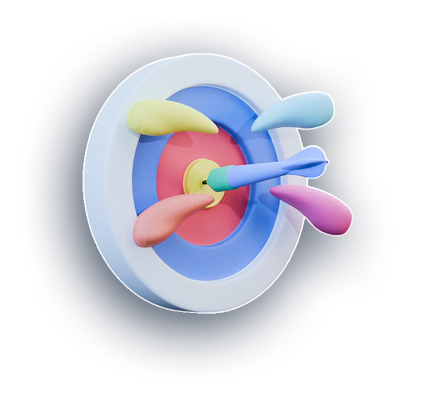
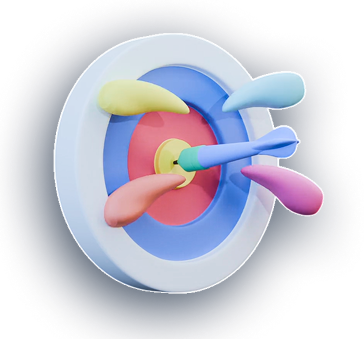
Imagenes nuevas y arreglos de css

diff --git a/index.html b/index.html
@@ -18,7 +18,7 @@
         
         <nav class="botones-navegacion">
             <a href="Contacto_Forms/forms.html" class="enlace-texto">Ayuda</a>
-            <a href="boveda.html" class="boton-primario-lineas">Mi Bóveda</a>
+            <a href="Carro.carga/carga_carro.html" class="boton-primario-lineas">Mi Bóveda</a>
         </nav>
     </header>
 
@@ -79,23 +79,38 @@
 
     <section class="seccion-testimonios">
         <h2>Testimonios</h2>
+        
         <div class="contenedor-carrusel">
             <button class="boton-flecha anterior" aria-label="Testimonio anterior">&#10094;&#10094;</button>
             
             <div class="rejilla-testimonios">
-                <div class="tarjeta-testimonio">
-                    <span class="etiqueta-cliente">Cliente Antiguo</span>
-                    <img src="Multimedia/Alberto-Hernandez.jpg" alt="Foto del cliente Alberto Hernández" class="imagen-usuario">
-                    <h4>Alberto Hernandez</h4>
-                    <p>“Lo que más tranquilidad me dio no fue solo ahorrar, sino sentir que podía adaptarme si las cosas cambiaban.”</p>
-                </div>
                 
-                <div class="tarjeta-testimonio">
+                <article class="tarjeta-testimonio">
+                    <span class="etiqueta-cliente">Cliente Antiguo</span>
+                    <div class="contenedor-foto-usuario">
+                        <img src="Multimedia/Alberto-Hernandez.jpg" alt="Foto del cliente Alberto Hernández" class="imagen-usuario">
+                    </div>
+                    <div class="bloque-contenido-testimonio">
+                        <h4>Alberto Hernandez</h4>
+                        <blockquote>
+                            “Lo que más tranquilidad me dio no fue solo ahorrar, sino sentir que podía adaptarme si las cosas cambiaban.”
+                        </blockquote>
+                    </div>
+                </article>
+                
+                <article class="tarjeta-testimonio">
                     <span class="etiqueta-cliente">Cliente Reciente</span>
-                    <img src="Multimedia/Adriana-Franco.jpg" alt="Foto de la cliente Adriana Franco" class="imagen-usuario">
-                    <h4>Adriana Franco</h4>
-                    <p>“Sentí tranquilidad al saber que podía seguir construyendo el futuro de mi hijo sin sentirme atrapado en el proceso.”</p>
-                </div>
+                    <div class="contenedor-foto-usuario">
+                        <img src="Multimedia/Adriana-Franco.jpg" alt="Foto de la cliente Adriana Franco" class="imagen-usuario">
+                    </div>
+                    <div class="bloque-contenido-testimonio">
+                        <h4>Adriana Franco</h4>
+                        <blockquote>
+                            “Sentí tranquilidad al saber que podía seguir construyendo el futuro de mi hijo sin sentirme atrapado en el proceso.”
+                        </blockquote>
+                    </div>
+                </article>
+
             </div>
 
             <button class="boton-flecha siguiente" aria-label="Siguiente testimonio">&#10095;&#10095;</button>
@@ -121,7 +136,7 @@
                     <p><strong>[email redacted]</strong> 📩</p>
                     <p><strong>(601) 744 0084</strong> 🤳🏻</p>
                 </div>
-                <a href="#" class="boton-blanco">Agenda tu cita</a>
+                <a href="Contacto_Forms/forms.html" class="boton-blanco">Agenda tu cita</a>
             </div>
         </div>
     </section>
@@ -159,7 +174,5 @@
             </div>
         </div>
     </footer>
-
-    <script src="scripts/main.js"></script>
 </body>
 </html>

diff --git a/estilos/home.css b/estilos/home.css
@@ -207,13 +207,14 @@
     opacity: 0.7;
 }
 
+/* CORRECCIÓN: Usamos flex en lugar de grid para que no se estiren al 100% */
 .rejilla-testimonios {
-    display: grid;
-    grid-template-columns: 1fr 1fr;
+    display: flex;
+    justify-content: center;
     gap: 30px;
-    width: 100%;
 }
 
+/* CORRECCIÓN: Le ponemos un ancho máximo fijo para que queden idénticas a tu diseño */
 .tarjeta-testimonio {
     background: rgba(255, 255, 255, 0.07);
     border: 1px solid rgba(255, 255, 255, 0.15);
@@ -221,6 +222,9 @@
     padding: 50px 30px 30px 30px;
     position: relative;
     backdrop-filter: blur(5px);
+    width: 460px; /* Evita que se vuelvan tubos estirados */
+    box-sizing: border-box;
+    text-align: left; /* Alinea los textos a la izquierda dentro de la tarjeta */
 }
 
 .etiqueta-cliente {
@@ -230,22 +234,37 @@
     background: #3a536e;
     padding: 6px 16px;
     border-radius: 15px;
-    font-size:15px;
+    font-size: 15px;
     font-weight: bold;
 }
 
+/* CORRECCIÓN: Bajamos un poco la altura para darle prioridad visual al texto */
 .imagen-usuario {
     width: 100%;
-    height: 250px;
+    height: 180px; 
     border-radius: 15px;
     margin-bottom: 20px;
     object-fit: cover;
 }
 
-.tarjeta-testimonio h4 { font-size: 20px; margin-bottom: 10px; }
-.tarjeta-testimonio p { font-size: 14px; opacity: 0.85; line-height: 1.6; font-style: italic; }
-.boton-centrado { text-align: center; margin-top: 40px; }
+.tarjeta-testimonio h4 { 
+    font-size: 20px; 
+    margin-bottom: 10px; 
+}
 
+.tarjeta-testimonio p { 
+    font-size: 14px; 
+    opacity: 0.85; 
+    line-height: 1.6; 
+    font-style: italic; 
+}
+
+.boton-centrado { 
+    text-align: center; 
+    margin-top: 40px; 
+}
+
+/* Tus estilos de la sección de contacto permanecen intactos abajo */
 .seccion-contacto {
     padding: 100px 10%;
 }
@@ -725,7 +744,7 @@
 }
 
 .marca img {
-    height: 110px;
+    height: 300px;
     width: auto;
     object-fit: contain;
 }
@@ -783,7 +802,7 @@
 }
 
 .billetera-3d-contenedor img {
-    height: 90px;
+    height: 250px;
     width: auto;
     object-fit: contain;
 }
@@ -875,7 +894,7 @@
 }
 
 .render-libros-esquina img {
-    height: 100px;
+    height: 250px;
     width: auto;
     object-fit: contain;
 }

diff --git a/boveda.html b/boveda.html
@@ -6,7 +6,7 @@
     <meta name="description" content="KidVault - Panel de control de usuario para el seguimiento del seguro educativo.">
     <title>Mi Progreso - KidVault</title>
     
-    <link rel="stylesheet" href="estilos/pautas_marca.css">
+    <link rel="stylesheet" href="estilos/marca.css">
     <link rel="stylesheet" href="estilos/home.css">
 </head>
 <body class="body-dashboard">
@@ -15,12 +15,12 @@
         
         <aside class="barra-lateral">
             <div class="logo-plataforma">
-                <img src="Multimedia/logo.png" alt="Logo de Global Seguros">
+                <img src="Multimedia/Logo-GS-sinfuturo-SINFONDO.png" alt="Logo de Global Seguros">
             </div>
 
             <div class="tarjeta-usuario-cristal">
                 <div class="contenedor-avatar">
-                    <img src="Multimedia/nina.png" alt="Avatar de Blanca García" class="avatar-foto">
+                    <img src="Multimedia/niña.png" alt="Avatar de Blanca García" class="avatar-foto">
                     <span class="decorativo-editar-perfil">✏️</span>
                 </div>
                 <h2 class="nombre-usuario">Blanca García</h2>